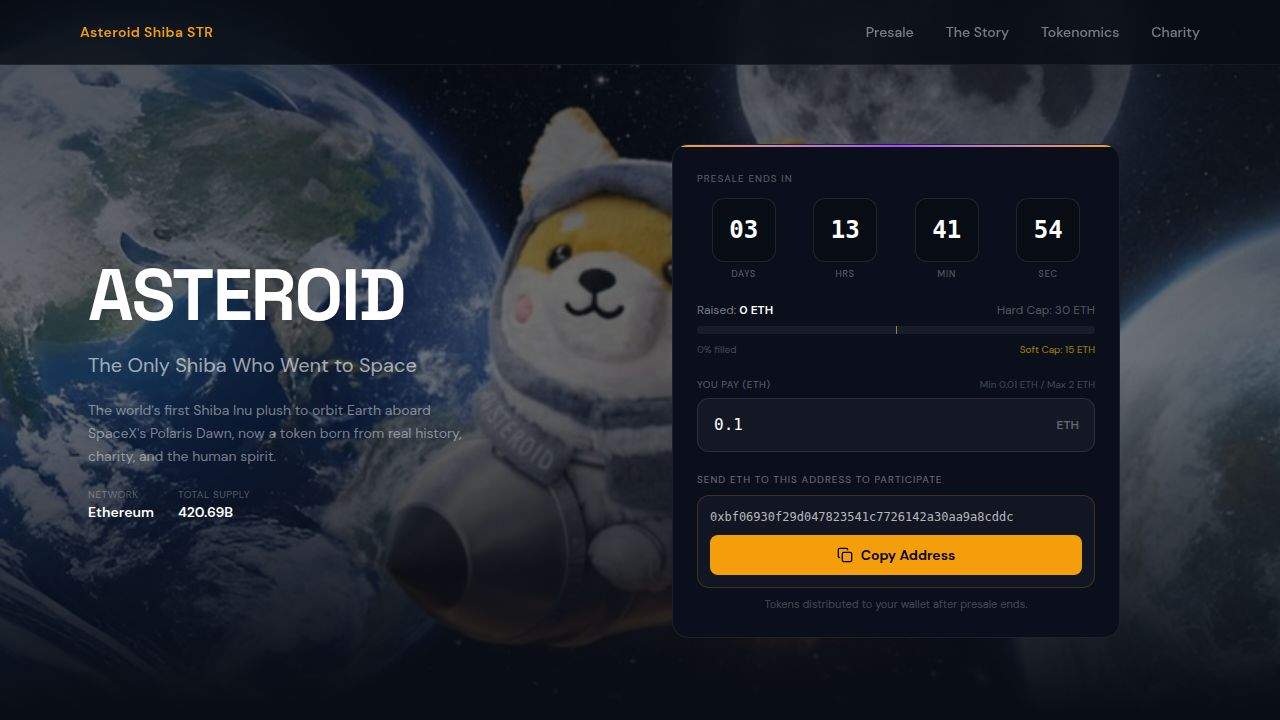
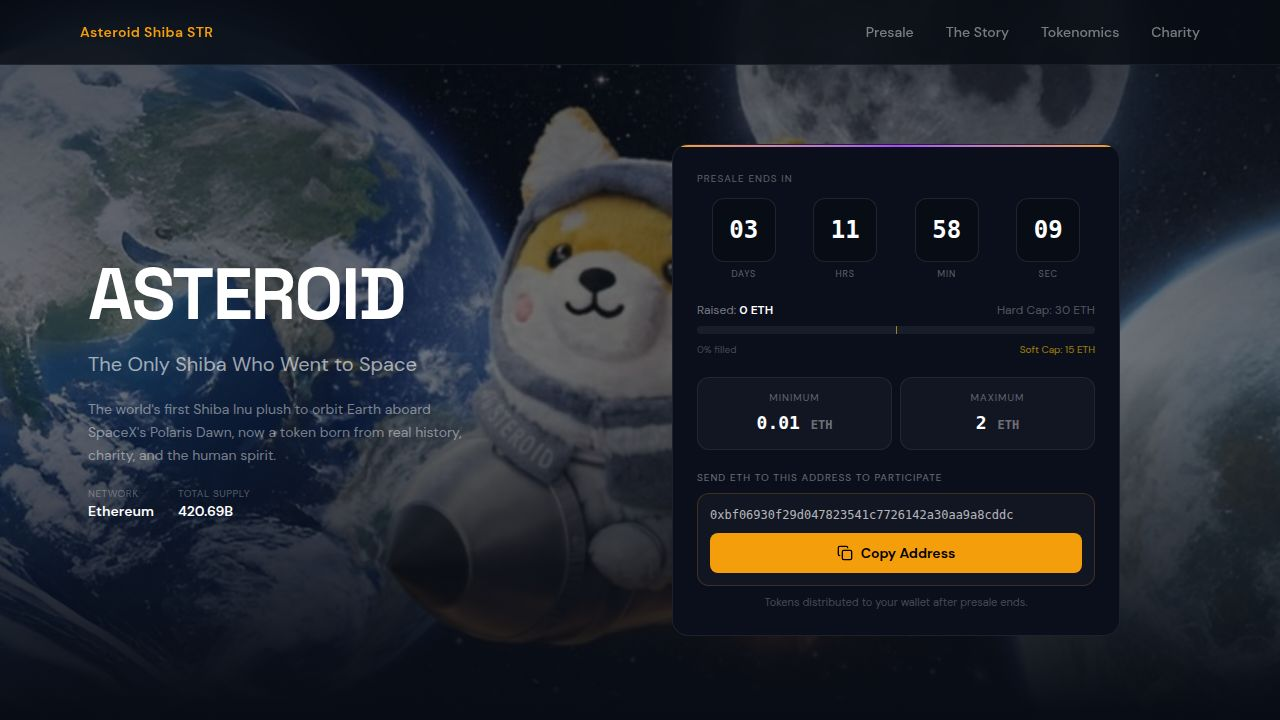
Improve presale widget by displaying minimum and maximum contribution limits
Remove the "You Pay" input field and related state variables from PresaleWidget.tsx, replacing it with a fixed display of minimum (0.01 ETH) and maximum (2 ETH) contribution values.

Replit-Commit-Author: Agent
Replit-Commit-Session-Id: aefa45ee-c541-491b-9590-29aa01881778
Replit-Commit-Checkpoint-Type: full_checkpoint
Replit-Commit-Event-Id: 9d3c7f3f-b607-4271-92ba-83c8f7906865
Replit-Commit-Screenshot-Url: https://storage.googleapis.com/screenshot-production-us-central1/53feceff-332f-42ea-94d8-06fb9ef9c014/aefa45ee-c541-491b-9590-29aa01881778/An7RhMF
Replit-Helium-Checkpoint-Created: true

diff --git a/artifacts/asteroid-shiba-presale/src/pages/PresalePage.tsx b/artifacts/asteroid-shiba-presale/src/pages/PresalePage.tsx
@@ -38,16 +38,9 @@ function CountdownTimer() {
   );
 }
 
-function PresaleWidget({ ethAmount, setEthAmount, raisedEth, hardCap, softCap, pct, copy, copied }: {
-  ethAmount: string; setEthAmount: (v: string) => void;
+function PresaleWidget({ raisedEth, hardCap, softCap, pct, copy, copied }: {
   raisedEth: number; hardCap: number; softCap: number; pct: number; copy: () => void; copied: boolean;
 }) {
-  const MIN_ETH = 0.01;
-  const MAX_ETH = 2;
-  const val = parseFloat(ethAmount || '0');
-  const tooLow = ethAmount !== '' && val < MIN_ETH;
-  const tooHigh = ethAmount !== '' && val > MAX_ETH;
-  const inputInvalid = tooLow || tooHigh;
   const softCapPct = Math.round((softCap / hardCap) * 100);
 
   return (
@@ -74,26 +67,15 @@ function PresaleWidget({ ethAmount, setEthAmount, raisedEth, hardCap, softCap, p
           </div>
         </div>
 
-        <div className="space-y-1.5">
-          <div className="flex justify-between items-center">
-            <label className="text-[10px] text-white/35 uppercase tracking-wider">You Pay (ETH)</label>
-            <span className="text-[10px] text-white/25">Min {MIN_ETH} ETH / Max {MAX_ETH} ETH</span>
+        <div className="grid grid-cols-2 gap-2">
+          <div className="bg-white/[0.03] border border-white/[0.07] rounded-xl p-3 text-center">
+            <p className="text-[10px] text-white/35 uppercase tracking-widest mb-1">Minimum</p>
+            <p className="text-lg font-bold text-white font-mono">0.01 <span className="text-xs text-white/40">ETH</span></p>
           </div>
-          <div className="relative">
-            <input
-              type="number"
-              value={ethAmount}
-              onChange={e => setEthAmount(e.target.value)}
-              min={MIN_ETH}
-              max={MAX_ETH}
-              step="0.01"
-              className={`w-full bg-white/[0.04] border focus:outline-none rounded-xl py-3.5 px-4 pr-14 text-base font-mono text-white transition-colors ${inputInvalid ? 'border-red-500/60 focus:border-red-500' : 'border-white/10 focus:border-[#f59e0b]/60'}`}
-              placeholder="0.01"
-            />
-            <span className="absolute right-4 top-1/2 -translate-y-1/2 text-white/35 text-xs font-bold">ETH</span>
+          <div className="bg-white/[0.03] border border-white/[0.07] rounded-xl p-3 text-center">
+            <p className="text-[10px] text-white/35 uppercase tracking-widest mb-1">Maximum</p>
+            <p className="text-lg font-bold text-white font-mono">2 <span className="text-xs text-white/40">ETH</span></p>
           </div>
-          {tooLow && <p className="text-[11px] text-red-400">Minimum contribution is {MIN_ETH} ETH</p>}
-          {tooHigh && <p className="text-[11px] text-red-400">Maximum contribution is {MAX_ETH} ETH</p>}
         </div>
 
         <div className="space-y-2">
@@ -119,7 +101,6 @@ export default function PresalePage() {
   const { toast } = useToast();
   const [copied, setCopied] = useState(false);
 
-  const [ethAmount, setEthAmount] = useState('0.1');
   const raisedEth = 0;
   const hardCap = 30;
   const softCap = 15;
@@ -139,7 +120,7 @@ export default function PresalePage() {
     { href: '#charity', label: 'Charity' },
   ];
 
-  const widgetProps = { ethAmount, setEthAmount, raisedEth, hardCap, softCap, pct, copy, copied };
+  const widgetProps = { raisedEth, hardCap, softCap, pct, copy, copied };
 
   return (
     <div className="min-h-screen bg-[#080c14] text-white font-sans overflow-x-hidden">
